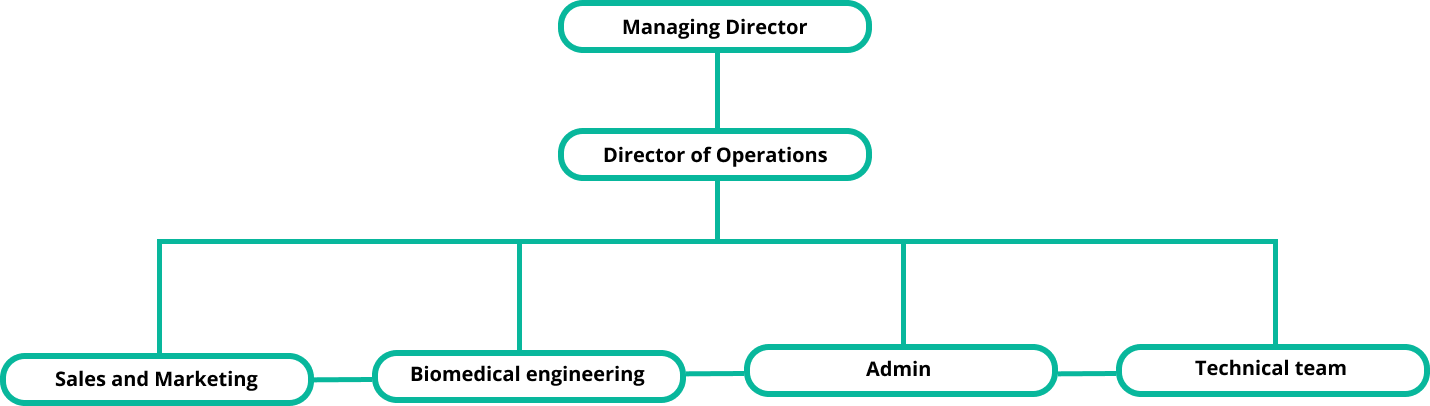
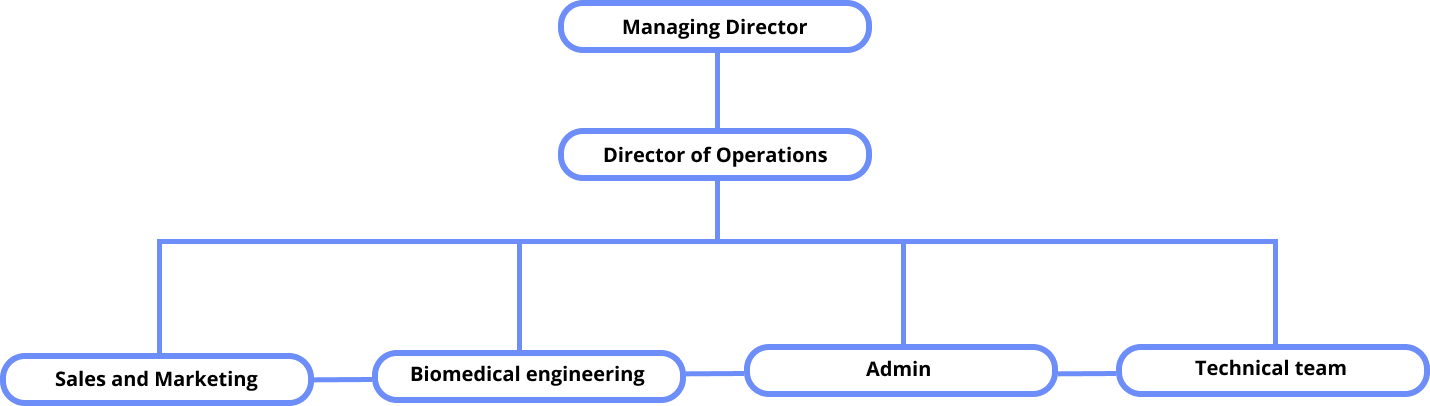
fixed

Changed region(s): [[0.0, 0.0, 1.0, 1.0]]

diff --git a/assets/css/main.css b/assets/css/main.css
@@ -19,7 +19,7 @@
 /* Colors */
 :root {
   --color-default: #364d59;
-  --color-primary: #08B79C;
+  --color-primary: #6d8df8;
   --color-secondary: #52565e;
 }
 
@@ -43,7 +43,7 @@ a {
 }
 
 a:hover {
-  color: #01f5cf;
+  color: #6d8df8;
   text-decoration: none;
 }
 
@@ -120,7 +120,7 @@ section {
 }
 
 #featured-services i {
-  color: #08B79C;
+  color: #6d8df8;
   font-size: 48px;
   display: inline-block;
   line-height: 1;
@@ -137,7 +137,7 @@ section {
 }
 
 #featured-services h4 a:hover {
-  color: #08B79C;
+  color: #6d8df8;
 }
 
 #featured-services p {
@@ -228,7 +228,7 @@ section {
 }
 
 .scroll-top:hover {
-  background: #01f5cf;
+  background: #6d8df8;
   color: #fff;
 }
 
@@ -649,7 +649,7 @@ section {
 .get-started .php-email-form .sent-message {
   display: none;
   color: #fff;
-  background: #059652;
+  background: #6d8df8;
   text-align: center;
   padding: 15px;
   margin-bottom: 24px;
@@ -671,7 +671,7 @@ section {
   width: 24px;
   height: 24px;
   margin: 0 10px -6px 0;
-  border: 3px solid #059652;
+  border: 3px solid #6d8df8;
   border-top-color: #fff;
   -webkit-animation: animate-loading 1s linear infinite;
   animation: animate-loading 1s linear infinite;
@@ -708,7 +708,7 @@ section {
 }
 
 .get-started .php-email-form button[type=submit]:hover {
-  background: rgba(1,245,207, 0.8);
+  background: rgba(109,141,248, 0.8);
 }
 
 @-webkit-keyframes animate-loading {
@@ -947,7 +947,7 @@ section {
 
 
 .projects .portfolio-flters li {
-  background-color: #08B79C;
+  background-color: #6d8df8;
   color: #fff;
   cursor: pointer;
   display: inline-block;
@@ -1099,13 +1099,13 @@ section {
 }
 
 .testimonials .testimonial-item .stars i {
-  color: #08B79C;
+  color: #6d8df8;
   margin: 0 1px;
 }
 
 .testimonials .testimonial-item .quote-icon-left,
 .testimonials .testimonial-item .quote-icon-right {
-  color: #08B79C;
+  color: #6d8df8;
   font-size: 26px;
   line-height: 0;
 }
@@ -1614,7 +1614,7 @@ section {
 
 .project-details .portfolio-description .testimonial-item .quote-icon-left,
 .project-details .portfolio-description .testimonial-item .quote-icon-right {
-  color: #08B79C;
+  color: #6d8df8;
   font-size: 26px;
   line-height: 0;
 }
@@ -1721,7 +1721,7 @@ section {
   line-height: 0;
   color: var(--color-primary);
   border-radius: 50%;
-  border: 2px dotted #08B79C;
+  border: 2px dotted #6d8df8;
 }
 
 .contact .info-item h3 {
@@ -1765,7 +1765,7 @@ section {
 .contact .php-email-form .sent-message {
   display: none;
   color: #fff;
-  background: #059652;
+  background: #6d8df8;
   text-align: center;
   padding: 15px;
   font-weight: 600;
@@ -1785,7 +1785,7 @@ section {
   width: 24px;
   height: 24px;
   margin: 0 10px -6px 0;
-  border: 3px solid #059652;
+  border: 3px solid #6d8df8;
   border-top-color: #fff;
   -webkit-animation: animate-loading 1s linear infinite;
   animation: animate-loading 1s linear infinite;
@@ -1821,7 +1821,7 @@ section {
 }
 
 .contact .php-email-form button[type=submit]:hover {
-  background: rgba(1,245,207, 0.8);
+  background: rgba(109,141,248, 0.8);
 }
 
 @keyframes animate-loading {
@@ -2422,7 +2422,7 @@ section {
 }
 
 .blog .sidebar .search-form form button:hover {
-  background: rgba(1,245,207, 0.8);
+  background: rgba(109,141,248, 0.8);
 }
 
 .blog .sidebar .categories ul {
@@ -2600,7 +2600,7 @@ section {
 
 .blog .comments .reply-form input:focus {
   box-shadow: none;
-  border-color: rgba(1,245,207, 0.8);
+  border-color: rgba(109,141,248, 0.8);
 }
 
 .blog .comments .reply-form textarea {
@@ -2611,7 +2611,7 @@ section {
 
 .blog .comments .reply-form textarea:focus {
   box-shadow: none;
-  border-color: rgba(1,245,207, 0.8);
+  border-color: rgba(109,141,248, 0.8);
 }
 
 .blog .comments .reply-form .form-group {

diff --git a/models/products/products.php b/models/products/products.php
@@ -27,7 +27,7 @@
       </div>
       <div style="display: flex; justify-content: center; align-items: center; margin-top: 20px;">
         <a data-aos="fade-up" data-aos-delay="200" href="products.php" 
-        style="background-color: #08B79C; color: aliceblue; 
+        style="background-color: #6d8df8; color: aliceblue; 
         padding: 15px; border-radius: 20px;" class="btn-get-started">View More Products</a>
     </div>
     </section><!-- End Our Projects Section -->
